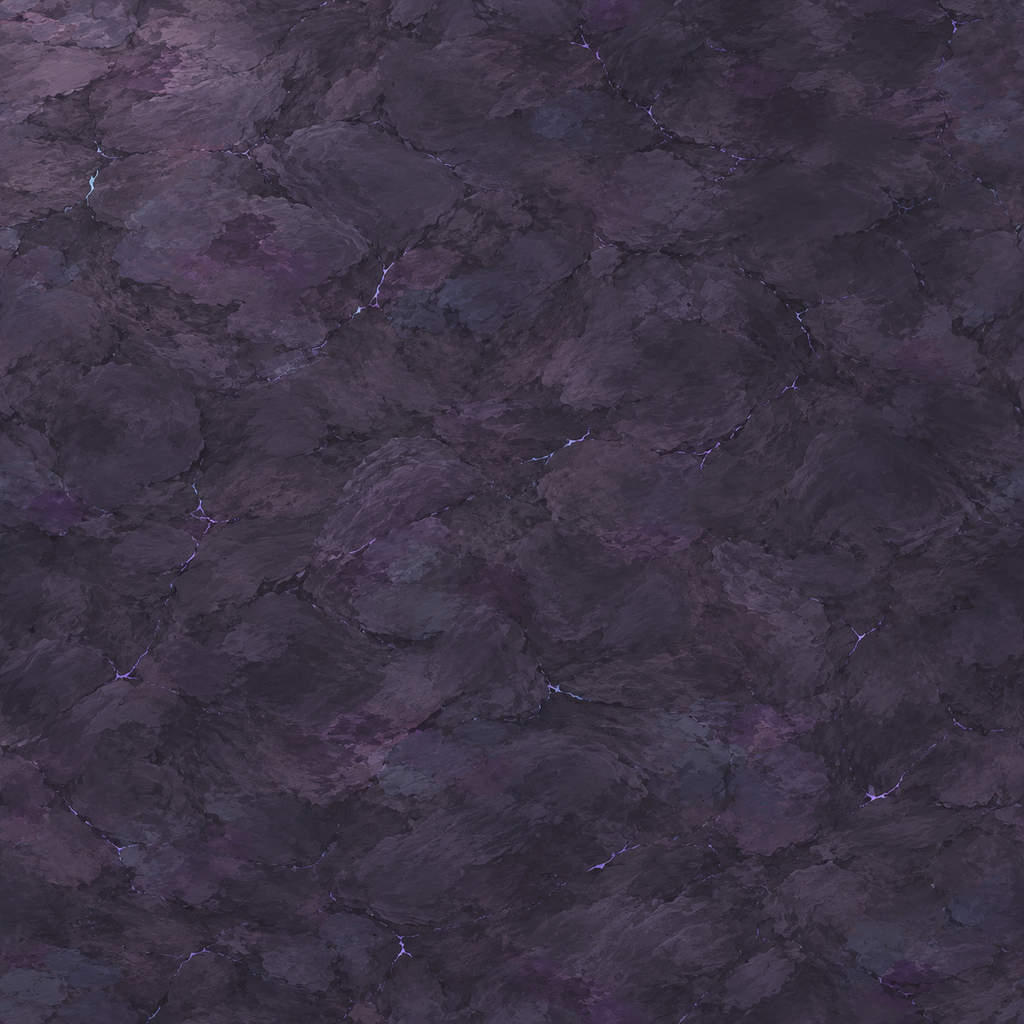
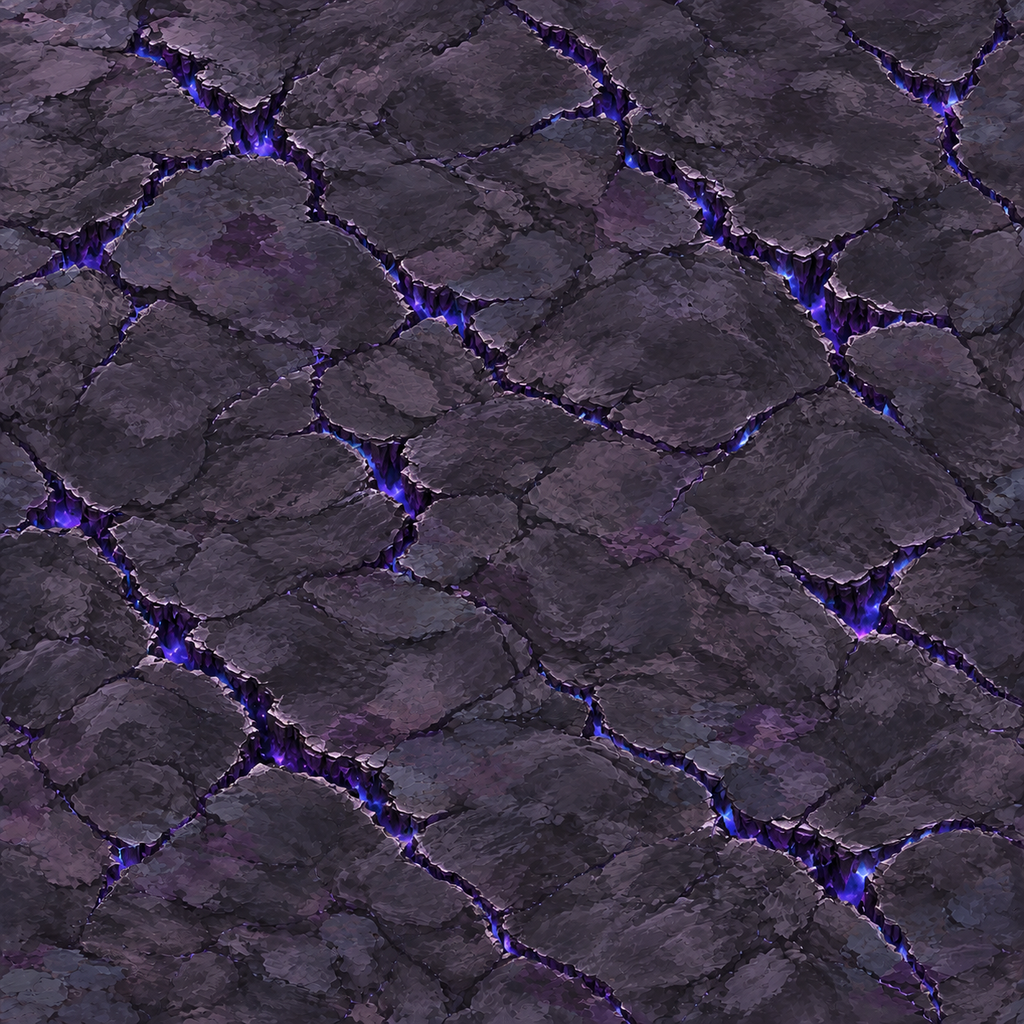
[Codex] feat: 混沌地表重製為幽光窄岩隙

diff --git a/codex-authored/scene-nature/battle-decor.js b/codex-authored/scene-nature/battle-decor.js
@@ -1433,7 +1433,6 @@ var BattleDecor = (function () {
       var painted=document.createElement('canvas');painted.width=painted.height=1024;
       var ground=painted.getContext('2d');
       if(!DecorNature.drawGround(ground,zoneKey,1024))return null;
-      if(zoneKey==='god_chaos')drawChaosFissures(ground,1024);
       return painted;
     }
 
@@ -1451,30 +1450,6 @@ var BattleDecor = (function () {
       var k=(y*256+x)*4;for(var j=0;j<3;j++)im.data[k+j]=c[j]+n;im.data[k+3]=255;
     }
     g.putImageData(im,0,0);return canvas;
-  }
-
-  /* 細裂幽光只烘入建圖，短裂紋不碰貼圖邊緣，也不形成地形缺口。 */
-  function drawChaosFissures(g,size) {
-    var r=mulberry(731904),scale=size/1024;
-    g.save();g.scale(scale,scale);g.lineCap='round';g.lineJoin='round';
-    for(var i=0;i<24;i++){
-      var x=range(r,95,929),y=range(r,95,929),angle=range(r,0,Math.PI*2);
-      var points=[[x,y]],segments=4+Math.floor(r()*3);
-      for(var j=0;j<segments;j++){
-        angle+=range(r,-.65,.65);var step=range(r,6,12);
-        x+=Math.cos(angle)*step;y+=Math.sin(angle)*step;points.push([x,y]);
-      }
-      var branch=points[2],a=angle+range(r,.7,1.2);
-      var twig=[branch,[branch[0]+Math.cos(a)*10,branch[1]+Math.sin(a)*10],[branch[0]+Math.cos(a+.35)*19,branch[1]+Math.sin(a+.35)*19]];
-      function stroke(path,width,color){g.strokeStyle=color;g.lineWidth=width;g.beginPath();g.moveTo(path[0][0],path[0][1]);for(var p=1;p<path.length;p++)g.lineTo(path[p][0],path[p][1]);g.stroke();}
-      [points,twig].forEach(function(path){
-        stroke(path,4.8,'rgba(96,91,209,.22)');
-        stroke(path,2.6,'rgba(88,163,207,.35)');
-        stroke(path,1.15,'rgba(141,219,240,.78)');
-        stroke(path,.45,'rgba(215,220,255,.74)');
-      });
-    }
-    g.restore();
   }
 
   /* 由整數分格與周期石紋構成，左右／上下邊界是同一條金屬接縫。 */
@@ -1768,7 +1743,7 @@ var BattleDecor = (function () {
   };
   /* 背景建圖 Worker（相對於 index.html）。改了 decor-sculpt／decor-nature／battle-decor 要一起更新
      這裡的版本與 Worker 檔內 importScripts 的版本字串，否則 Worker 會吃到快取的舊畫法。 */
-  var ATLAS_WORKER_URL = 'js/worker/decor-atlas.worker.js?v=1.0.24';
+  var ATLAS_WORKER_URL = 'js/worker/decor-atlas.worker.js?v=1.0.25';
   var VARIANTS = 3;          // 每種擺件／地面裝飾畫幾個變體
   var TEX_SCALE = 1.5;       // 圖集解析度（畫面放大或高 DPI 時仍清楚；開 mipmap 避免縮小時閃爍）
 

diff --git a/codex-authored/scene-nature/decor-nature.js b/codex-authored/scene-nature/decor-nature.js
@@ -23,7 +23,7 @@ var DecorNature = (function () {
     };
     loading=Promise.all(Object.keys(SPRITE_FILES).concat(Object.keys(GROUND_FILES)).map(function(key){
       if(sprites[key])return;
-      var file=GROUND_FILES[key]?'images/ground/'+GROUND_FILES[key]+'.png?v=20261030-ground-aura':'images/scene/'+SPRITE_FILES[key]+'.png?v=20261030-painted-realms';
+      var file=GROUND_FILES[key]?'images/ground/'+GROUND_FILES[key]+'.png?v=20261031-chaos-narrow-rift':'images/scene/'+SPRITE_FILES[key]+'.png?v=20261030-painted-realms';
       return loader(new URL(file,base).href).then(function(image){sprites[key]=image;});
     })).then(function(){loading=null;},function(error){loading=null;throw error;});
     return loading;
